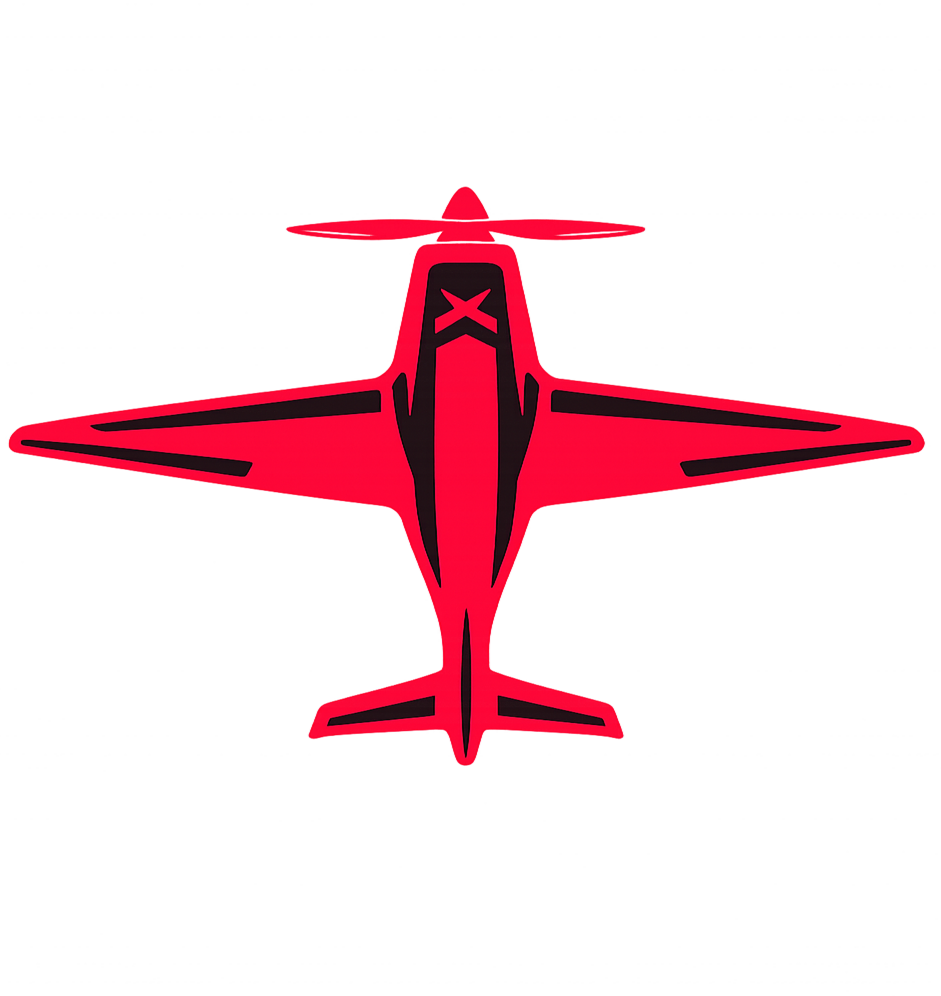
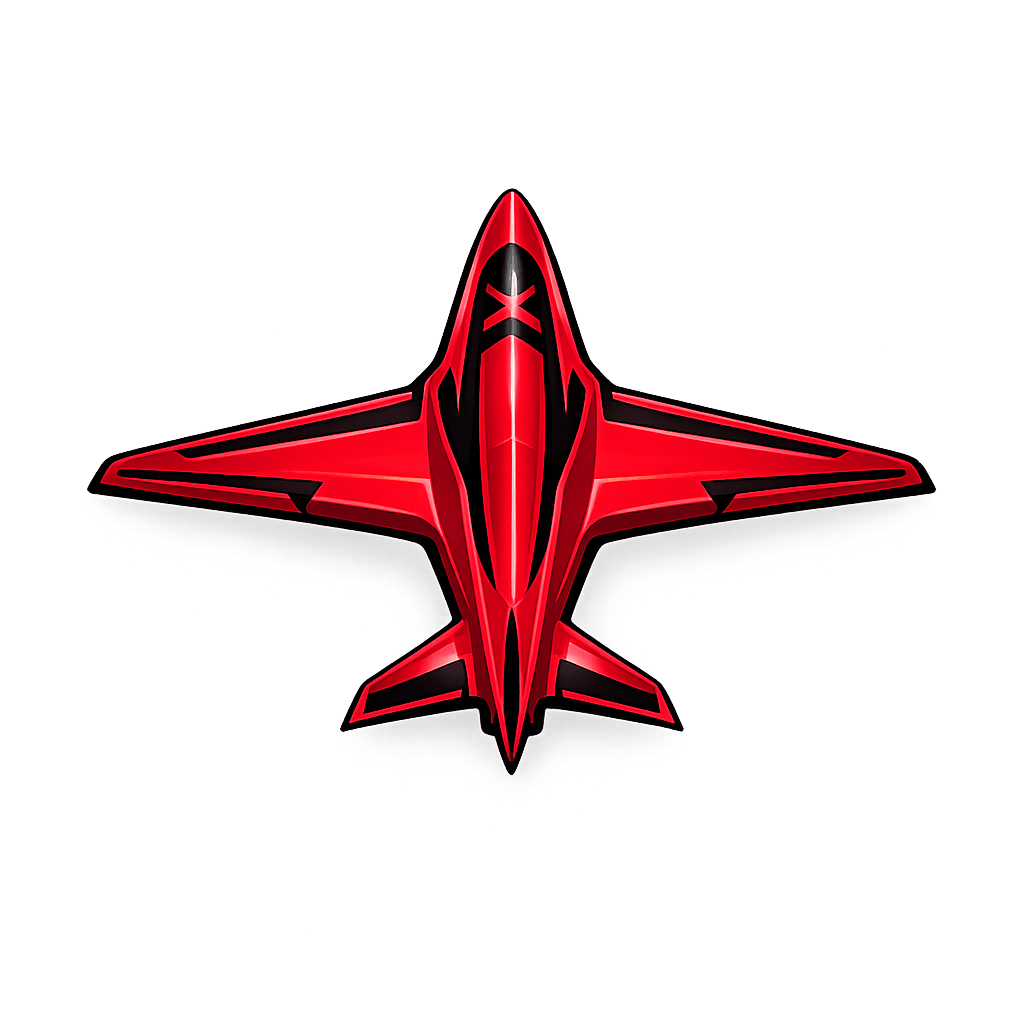
feat: plane and auth update

Changed region(s): [[0.0, 0.1867, 0.9862, 0.7781]]

diff --git a/frontend/__tests__/AuthContext.spec.tsx b/frontend/__tests__/AuthContext.spec.tsx
@@ -3,6 +3,19 @@ import { render, screen, waitFor, act } from "@testing-library/react";
 import { AuthProvider, useAuth } from "@/context/AuthContext";
 import { UserRole } from "@/types/user";
 
+// Mock wagmi
+vi.mock("wagmi", () => ({
+  useSignMessage: vi.fn(() => ({
+    signMessageAsync: vi.fn().mockResolvedValue("mock-signature"),
+  })),
+  useAccount: vi.fn(() => ({
+    address: undefined,
+    isConnected: false,
+    isReconnecting: false,
+    isConnecting: false,
+  })),
+}));
+
 // Mock fetch
 global.fetch = vi.fn();
 

diff --git a/frontend/components/auth/WalletAuthManager.tsx b/frontend/components/auth/WalletAuthManager.tsx
@@ -9,12 +9,17 @@ import { useAuth } from "@/context/AuthContext";
  * It automatically logs in when a wallet connects and handles address switching.
  */
 export default function WalletAuthManager() {
-  const { address, isConnected } = useAccount();
+  const { address, isConnected, isReconnecting, isConnecting } = useAccount();
   const { user, loginWithWallet, logout, isLoading } = useAuth();
   const { disconnect } = useDisconnect();
   const lastProcessedAddress = useRef<string | undefined>(undefined);
 
   useEffect(() => {
+    // Skip checking if wagmi is still restoring connection or connecting
+    if (isReconnecting || isConnecting) {
+      return;
+    }
+
     // 1. Handle disconnection
     if (!isConnected && user) {
       console.log("Wallet disconnected, logging out user:", user.id);
@@ -57,7 +62,7 @@ export default function WalletAuthManager() {
     } else if (!isConnected) {
       lastProcessedAddress.current = undefined;
     }
-  }, [isConnected, address, user, isLoading, loginWithWallet, logout]);
+  }, [isConnected, address, user, isLoading, loginWithWallet, logout, isReconnecting, isConnecting]);
 
   return null; // This component doesn't render anything
 }

diff --git a/frontend/hooks/useWalletAuth.ts b/frontend/hooks/useWalletAuth.ts
@@ -9,10 +9,14 @@ import { useAuth } from "@/context/AuthContext";
  * Watches for wallet connection and calls backend login endpoint
  */
 export function useWalletAuth() {
-    const { address, isConnected } = useAccount();
+    const { address, isConnected, isReconnecting, isConnecting } = useAccount();
     const { user, loginWithWallet, isLoading } = useAuth();
 
     useEffect(() => {
+        if (isReconnecting || isConnecting) {
+            return;
+        }
+
         console.log("useWalletAuth effect:", {
             isConnected,
             address,
@@ -26,7 +30,7 @@ export function useWalletAuth() {
                 console.error("Wallet login failed:", error);
             });
         }
-    }, [isConnected, address, user, isLoading, loginWithWallet]);
+    }, [isConnected, address, user, isLoading, loginWithWallet, isReconnecting, isConnecting]);
 
     return { isConnected, address, user };
 }